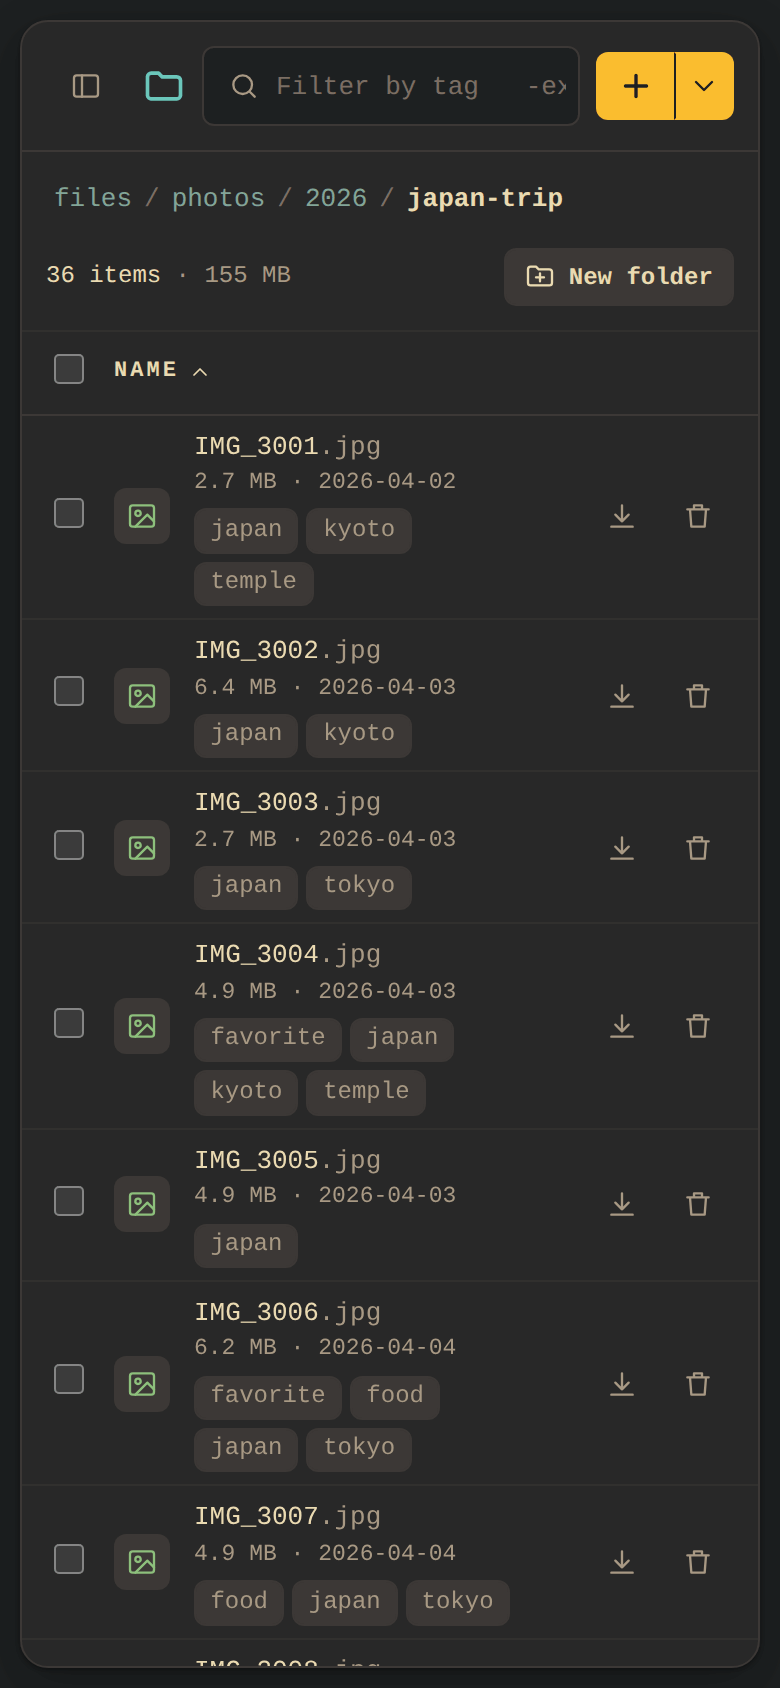
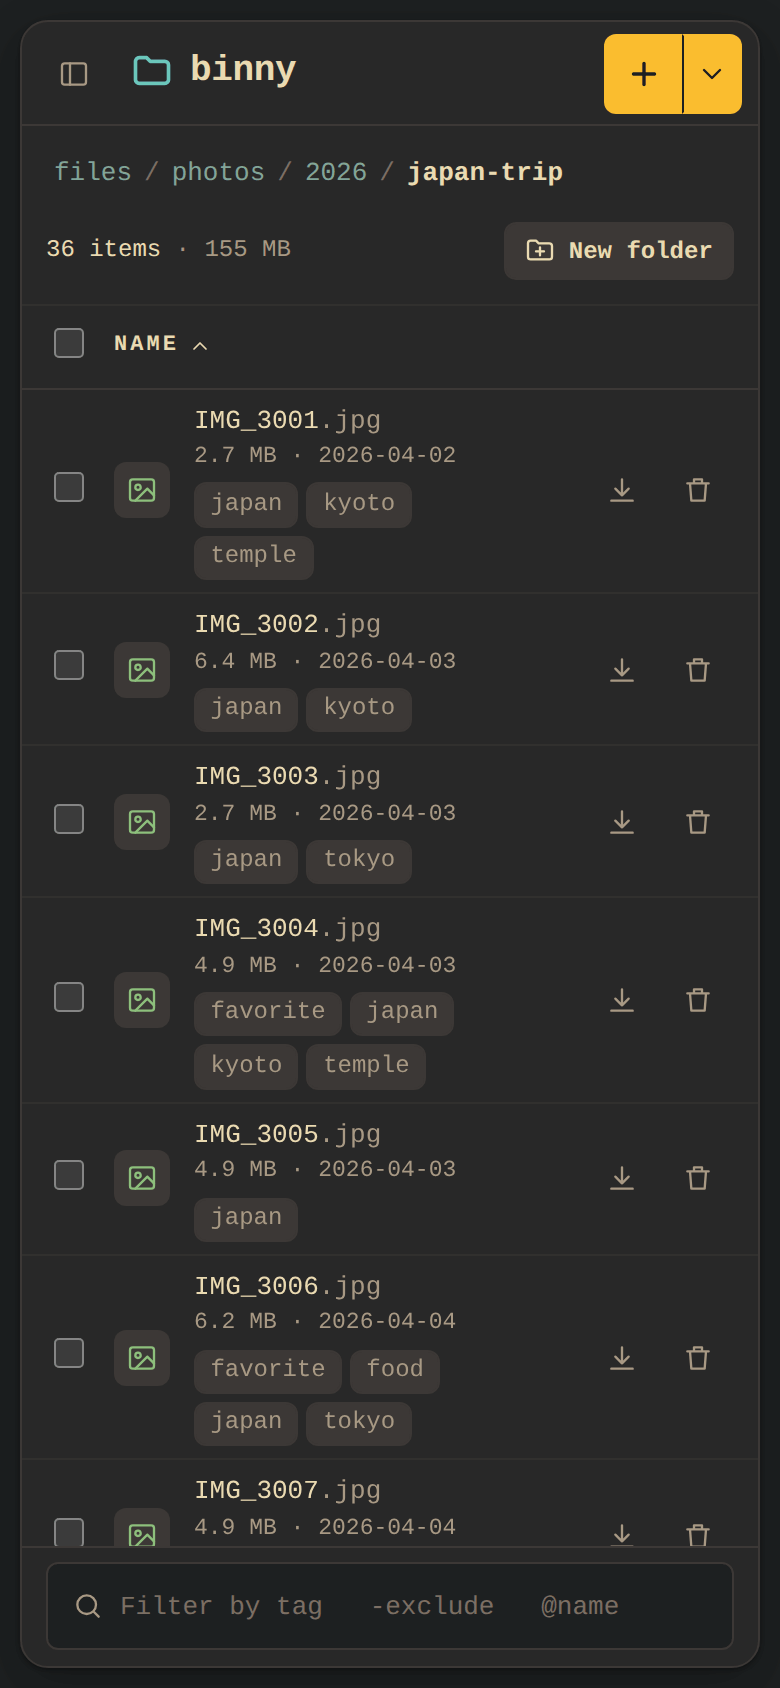
Move search to a bottom dock on phones so the top bar fits the wordmark
The phone's top bar held the menu, the logo, the search box and the upload
button in 390px, so the search placeholder was cut off and the wordmark was
hidden. Search is now a dock along the bottom of the app on phones only; the
top bar shows the wordmark beside the logo, and desktop is unchanged.

The dock reserves its own space under the list, so the selection bar still sits
just above it; suggestions, the upload card and the toast clear it; the body
padding follows the safe-area insets; the search input is 16px so iOS doesn't
zoom into it, and interactive-widget=resizes-content lets the dock rise above
the on-screen keyboard on Android. The top bar no longer turns into the search
box while typing, so that class and its script are gone.

Claude-Session: https://claude.ai/code/session_01Qe7URwaArr4JHzL1Xy3gCh

diff --git a/binny/static/css/style.css b/binny/static/css/style.css
@@ -385,17 +385,26 @@ input[type="checkbox"] { accent-color: var(--accent); width: 15px; height: 15px;
 
 /* ---------- phones: the sidebar becomes a drawer, the table keeps name and actions ---------- */
 @media (max-width: 760px) {
+    :root { --dock: 60px; }
+    body { padding: max(var(--shell-gap), env(safe-area-inset-top)) max(var(--shell-gap), env(safe-area-inset-right)) max(var(--shell-gap), env(safe-area-inset-bottom)) max(var(--shell-gap), env(safe-area-inset-left)); }
     .side { display: none; position: absolute; top: 0; left: 0; bottom: 0; z-index: 35; width: min(88vw, 360px); background: var(--bg-surface); box-shadow: var(--shadow-lift); border-radius: var(--radius-lg) 0 0 var(--radius-lg); }
     .side.open { display: flex; }
     #sideBtn { display: inline-grid; }
     .topbar { gap: var(--app-space-2); height: 52px; padding-inline: var(--app-space-1) var(--app-space-3); }
-    .topbar .brand { margin-right: 0; }
+    .topbar .brand { margin-right: auto; }
     .topbar .icon-btn { width: 44px; height: 44px; }
-    .topbar .cc-wordmark, .search .kbd, #themeBtn, .topbar .signout { display: none; }
+    .search .kbd, #themeBtn, .topbar .signout { display: none; }
     .side-actions { display: flex; }
-    .topbar.searching > :not(.search) { display: none; } /* the box takes the whole bar while typing */
-    .search, .split { height: 40px; }
+    .split { height: 40px; }
     .icon-btn { width: 40px; height: 40px; }
+    /* Search is a dock along the bottom, in thumb's reach and out of the top bar's way; its suggestions open upward. */
+    .body { padding-bottom: var(--dock); }
+    .app::after { content: ""; position: absolute; inset: auto 0 0; height: var(--dock); border-top: 1px solid var(--border); }
+    .search { position: absolute; z-index: 2; inset: auto var(--app-space-4) var(--app-space-3); max-width: none; height: 44px; margin: 0; }
+    .search input { font-size: 16px; } /* iOS zooms into anything smaller when it's focused */
+    .search input::placeholder { font-size: 13px; } /* so all of it still fits */
+    .search .icon-btn { width: 32px; height: 32px; }
+    .suggest { top: auto; bottom: calc(100% + 6px); }
     .subbar, .selbar { padding-inline: var(--app-space-4); }
     .col-size, .col-mod, .col-tags { display: none; }
     .files td:has(> .name) { width: 100%; }
@@ -404,7 +413,8 @@ input[type="checkbox"] { accent-color: var(--accent); width: 15px; height: 15px;
     .acts { opacity: 1; }
     .acts .opt { display: none; }
     .acts .icon-btn { width: 36px; height: 36px; }
-    .uploads { left: var(--app-space-4); right: var(--app-space-4); bottom: var(--app-space-4); width: auto; }
+    .uploads { left: var(--app-space-4); right: var(--app-space-4); bottom: calc(var(--dock) + var(--app-space-4)); width: auto; }
+    .toast { inset-block-end: calc(var(--dock) + var(--app-space-5) + env(safe-area-inset-bottom)); }
 }
 
 @media (prefers-reduced-motion: reduce) {

diff --git a/binny/static/js/search.js b/binny/static/js/search.js
@@ -228,14 +228,8 @@ const syncClear = () => { $('searchClear').hidden = !input().value && currentSea
 export function initSearch() {
     const box = input();
     syncBox();
-    box.addEventListener('focus', () => {
-        $('topbar').classList.add('searching');
-        renderSuggestions();
-    });
-    box.addEventListener('blur', () => {
-        $('topbar').classList.remove('searching');
-        hideSuggestions();
-    });
+    box.addEventListener('focus', renderSuggestions);
+    box.addEventListener('blur', hideSuggestions);
     box.addEventListener('click', () => $('suggest').hidden && renderSuggestions()); // back after an Enter
     box.addEventListener('input', () => {
         active = -1;

diff --git a/binny/templates/base.html b/binny/templates/base.html
@@ -2,7 +2,7 @@
 <html lang="en" data-theme="dark">
 <head>
     <meta charset="utf-8">
-    <meta name="viewport" content="width=device-width, initial-scale=1, viewport-fit=cover">
+    <meta name="viewport" content="width=device-width, initial-scale=1, viewport-fit=cover, interactive-widget=resizes-content">
     <title>{% block title %}Binny{% endblock %}</title>
     <link rel="icon" type="image/svg+xml" href="{{ url_for('static', filename='favicon.svg') }}">
     <link rel="icon" type="image/png" href="{{ url_for('static', filename='favicon.png') }}">

diff --git a/CLAUDE.md b/CLAUDE.md
@@ -16,7 +16,8 @@ still being made. Update them as they settle rather than working around them.
   (it opens only the branch you are in; other branches open by their arrow), the breadcrumb for
   the exact path and moving up, and the file list for moving down. The sidebar is always shown
   beside the list; on phones it is a drawer (opened by the top bar's button), which also holds the
-  theme switch and sign-out, as the top bar has no room for them there.
+  theme switch and sign-out, as the top bar has no room for them there. Also on phones, the search
+  box is a dock along the bottom (its suggestions open upward) so the top bar can keep the wordmark.
 - **Explorer:** nested folders; create, rename, move (drag-and-drop and a "move to" picker),
   upload (button and drag-and-drop, many files at once), download (single files; folders and
   multi-selections as a zip).

diff --git a/README.md b/README.md
@@ -72,7 +72,8 @@ upload from link still in progress, so let those finish first.
 ## On your phone
 
 Binny fits a phone: the folder tree and tags move into a drawer, along with the theme switch and
-sign-out, and each file's size, date and tags sit under its name.
+sign-out, search moves to a bar along the bottom, within thumb's reach, and each file's size, date
+and tags sit under its name.
 
 <p align="center">
   <img src="assets/phone-folder.png" alt="A folder on a phone" width="30%">
